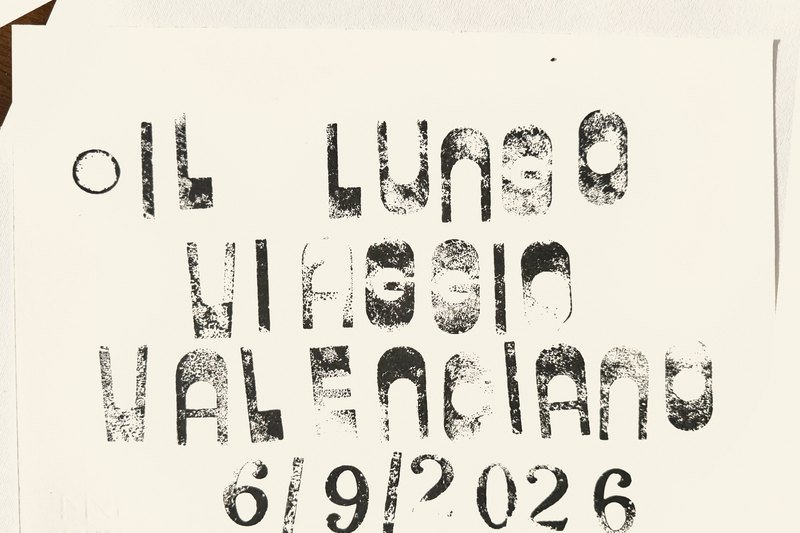
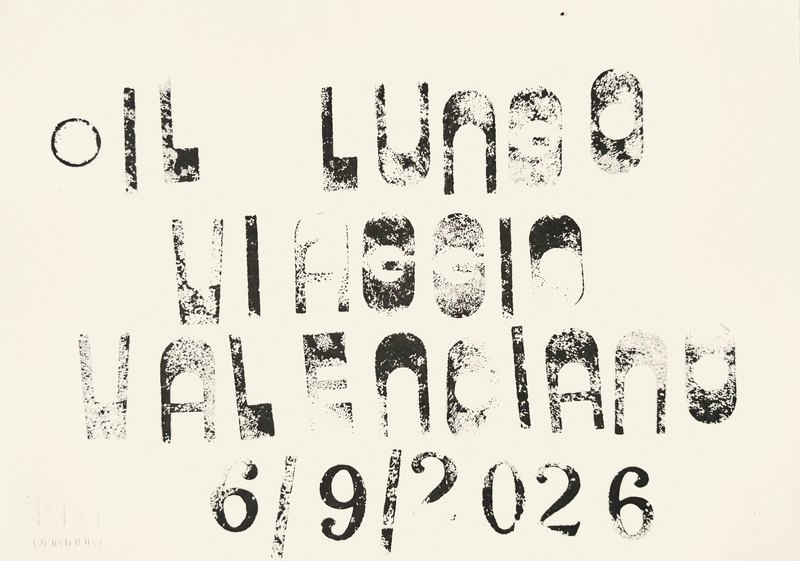
redo: 6/9 + 7/9 from new clean photos (isolated paper, v7 standard)

Changed region(s): [[0.0625, 0.1201, 0.9375, 1.0], [0.0, 0.0, 0.0938, 0.2402], [0.9688, 0.3002, 1.0, 0.5403]]

diff --git a/index.html b/index.html
@@ -693,21 +693,21 @@ section#timbri{ padding-top: clamp(170px, 19vw, 250px); }
       <figcaption class="work-caption"><span class="work-date">8/9/26</span></figcaption>
     </figure>
     <figure class="work">
-      <div class="work-frame" style="--ratio: 65.83%;">
+      <div class="work-frame" style="--ratio: 71.78%;">
         <img src="foto_definitive/Timbro_2026-09-07.jpg"
              srcset="foto_definitive/thumbs/Timbro_2026-09-07.jpg 800w, foto_definitive/Timbro_2026-09-07.jpg 1800w"
              sizes="(max-width: 720px) 92vw, 720px"
-             width="1800" height="1185"
+             width="1800" height="1292"
              alt="7/9/26" loading="lazy" decoding="async" />
       </div>
       <figcaption class="work-caption"><span class="work-date">7/9/26</span></figcaption>
     </figure>
     <figure class="work">
-      <div class="work-frame" style="--ratio: 66.67%;">
+      <div class="work-frame" style="--ratio: 70.11%;">
         <img src="foto_definitive/Timbro_2026-09-06.jpg"
              srcset="foto_definitive/thumbs/Timbro_2026-09-06.jpg 800w, foto_definitive/Timbro_2026-09-06.jpg 1800w"
              sizes="(max-width: 720px) 92vw, 720px"
-             width="1800" height="1200"
+             width="1800" height="1262"
              alt="6/9/26" loading="lazy" decoding="async" />
       </div>
       <figcaption class="work-caption"><span class="work-date">6/9/26</span></figcaption>
